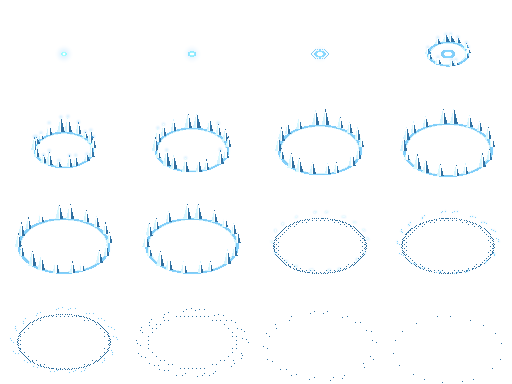
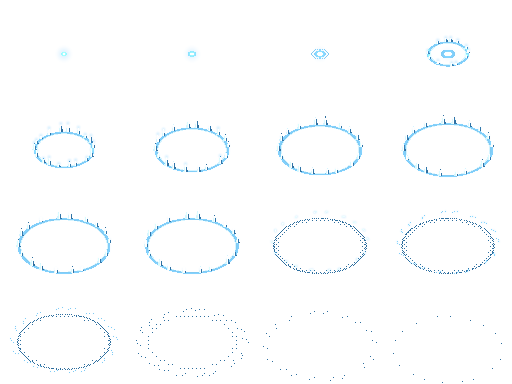
M5-03 xem trinh duyet: kiem duoi quai dung sheet beanfx, bo so sat thuong nhip dot/vung lua, gai Han Khi thap lai

diff --git a/src/systems/combat.js b/src/systems/combat.js
@@ -49,8 +49,8 @@ export function nearestTargets(ctx, x, y, range, n, los = true, exclude = null) 
   return list.slice(0, n).map(e => e[1]);
 }
 
-function hitMonster(ctx, m, dmg, color) {
-  const killed = damageMonster(m, dmg * ctx.stats.damage, ctx.ev, color);
+function hitMonster(ctx, m, dmg, color, quiet = false) {
+  const killed = damageMonster(m, dmg * ctx.stats.damage, quiet ? null : ctx.ev, color);   // quiet: nhịp vùng/đốt không in số
   if (killed) m.killedBy = 'skill';
   return killed;
 }
@@ -334,7 +334,7 @@ export function updateZones(ctx, dt) {
     z.t -= dt; z.tick -= dt;
     if (z.tick <= 0) {
       z.tick = 0.25;
-      for (const m of ctx.scene.monsters) if (!m.dead && Math.hypot(m.x - z.x, m.y - z.y) < z.r) hitMonster(ctx, m, z.dps * 0.25 * ctx.atk, '#ffb070');
+      for (const m of ctx.scene.monsters) if (!m.dead && Math.hypot(m.x - z.x, m.y - z.y) < z.r) hitMonster(ctx, m, z.dps * 0.25 * ctx.atk, '#ffb070', true);
     }
     if (z.t <= 0) zs.splice(i, 1);
   }

diff --git a/src/render/render.js b/src/render/render.js
@@ -384,7 +384,7 @@ function drawProjectiles(ctx, scene, FX, dt, quality) {
       if (q.evo && q.evo.chains) { ctx.globalCompositeOperation = 'lighter'; ctx.fillStyle = '#d9c8ff'; ctx.fillRect(x - 1 + ((x * 7) % 3) - 1, y - 2, 1, 4); ctx.globalCompositeOperation = 'source-over'; }
     } else {
       ctx.globalCompositeOperation = 'lighter';
-      if (q.kind === 'homing') {
+      if (q.kind === 'homing' && !(rich && FX.phi_kiem)) {   // hình code khi đồ họa Thấp / chưa nạp sheet
         const c = Math.cos(q.heading), s = Math.sin(q.heading);
         pxLine(ctx, x - c * 5, y - s * 5, x + c * 3, y + s * 3, q.color, 1);
         ctx.fillStyle = '#fff'; ctx.fillRect(x + Math.round(c * 3), y + Math.round(s * 3), 1, 1);

diff --git a/src/entities/monsters.js b/src/entities/monsters.js
@@ -71,7 +71,7 @@ export function updateMonsters(scene, player, dt, ev, opts) {
     m.hit -= dt; m.atkCd -= dt; m.think -= dt;
     if (m.burn && m.burn.t > 0) {
       m.burn.t -= dt; m.burn.acc += m.burn.dps * dt;
-      if (m.burn.acc >= 1) { const d = Math.floor(m.burn.acc); m.burn.acc -= d; damageMonster(m, d, ev, '#ffb070'); if (m.dead) continue; }
+      if (m.burn.acc >= 1) { const d = Math.floor(m.burn.acc); m.burn.acc -= d; damageMonster(m, d, null, '#ffb070'); if (m.dead) continue; }   // nhịp thiêu đốt: không in số (in mỗi nhịp chồng thành cột chữ che quái)
     }
     if (m.slow && m.slow.t > 0) m.slow.t -= dt;
     const slowF = m.slow && m.slow.t > 0 ? 1 - m.slow.f : 1;

diff --git a/vfx/drafts/han_khi/han_khi.py b/vfx/drafts/han_khi/han_khi.py
@@ -79,7 +79,7 @@ def render(a, f, seed=SEED):
         bx, by = math.cos(ang) * R, math.sin(ang) * R * FLAT
         if born <= f <= 9:
             grow = min(1.0, (f - born + 1) / 2)
-            hgt, wid = 14 * size * grow, 3.6 * size
+            hgt, wid = 8 * size * grow, 2.4 * size   # trong game phóng tới ×1,8: giữ gai thấp để không che quái
             spike(m, x, y, bx, by, hgt, wid)
             if f - born < 2:
                 light.glow(L, c, bx, by - hgt, 3.5, 0.32)                 # đỉnh gai lóe khi mọc

diff --git a/TASKS_TU_TIEN_LO.md b/TASKS_TU_TIEN_LO.md
@@ -432,6 +432,7 @@ Tạo thư mục `docs/adr/` hoặc phần ghi chú khi có quyết định ản
 | 2026-11-12 | M5-01..06 | PARTIAL (M5-05 DONE) | Dáng quái riêng; VFX beanfx Lôi Cương + công cụ chuyển strip→beanfx; bench logic (100/200: 0,98 ms trung vị); overlay F3, ?stress=1, mức đồ họa; âm thanh tổng hợp + cài đặt; joystick ảo; cây mờ khi che. 123/123 test PASS | GATE v0.4 chưa đạt: chưa đo vẽ, chưa nghe, chưa máy thật, chưa làm lại biome/sprite nhân vật/VFX còn lại |
 | 2026-11-12 | M5-03 đợt 1 | DONE (chưa xem trình duyệt) | 4 VFX beanfx: Lôi Vực, Hỏa Cầu (bay+nổ), Phong Nhận, Hỏa Long Quyển (từ loc_gio_v2). Ánh sáng mean 0,06–0,11, cover 16–48%; kiểm tra beanfx sạch. 131/131 test PASS | Còn 5 công pháp + boss |
 | 2026-11-12 | M5-03 đợt 2 | DONE (chưa xem trình duyệt) | 8 sheet beanfx: phi_kiem, liet_diem_kiem (16 hướng), liet_diem_vung, bang_cham (8 hướng), han_khi, hoa_luan, hac_diem_no, hac_diem_dan; kiểm tra beanfx sạch; gắn vào game (fx dùng chung theo tên+hàng cho kiếm xoay/vùng lửa/đạn boss; đồ họa Thấp → hình code). 139/139 test PASS | M5-03 còn: xem trong trình duyệt; M5-01/02/04/06 như trước |
+| 2026-11-12 | M5-03 xem trình duyệt | DONE | Xem trong game (127.0.0.1, `?loop=timer&perf`, dựng chiêu/boss bằng console): các VFX hiện đúng, ~62 FPS, ~1 ms/khung. Sửa: bỏ số sát thương nhịp thiêu đốt/vùng lửa (`quiet`), gai Hàn Khí thấp lại; kiếm đuổi quái trước đây không dùng sheet beanfx (nhánh vẽ code đứng trước) — đã sửa và xem lại. Nổ hắc diễm xem cận cảnh đạt. 139/139 test PASS | Không |
 
 ---
 
